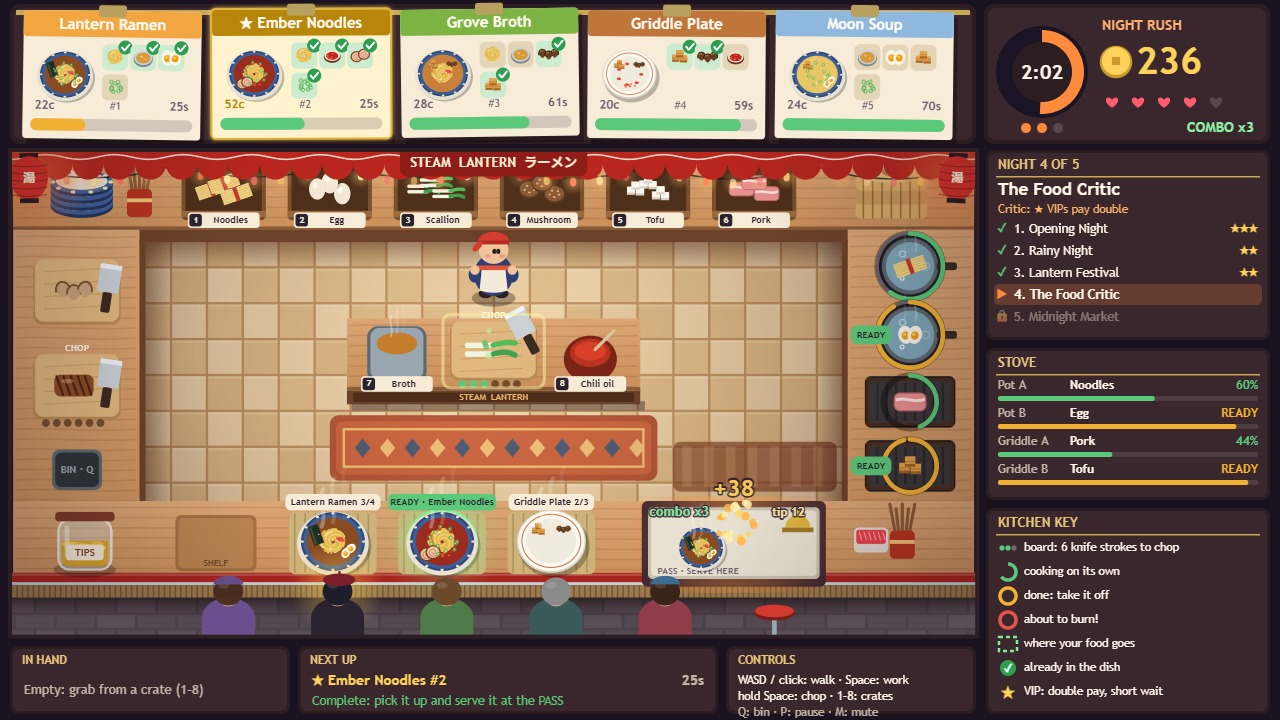
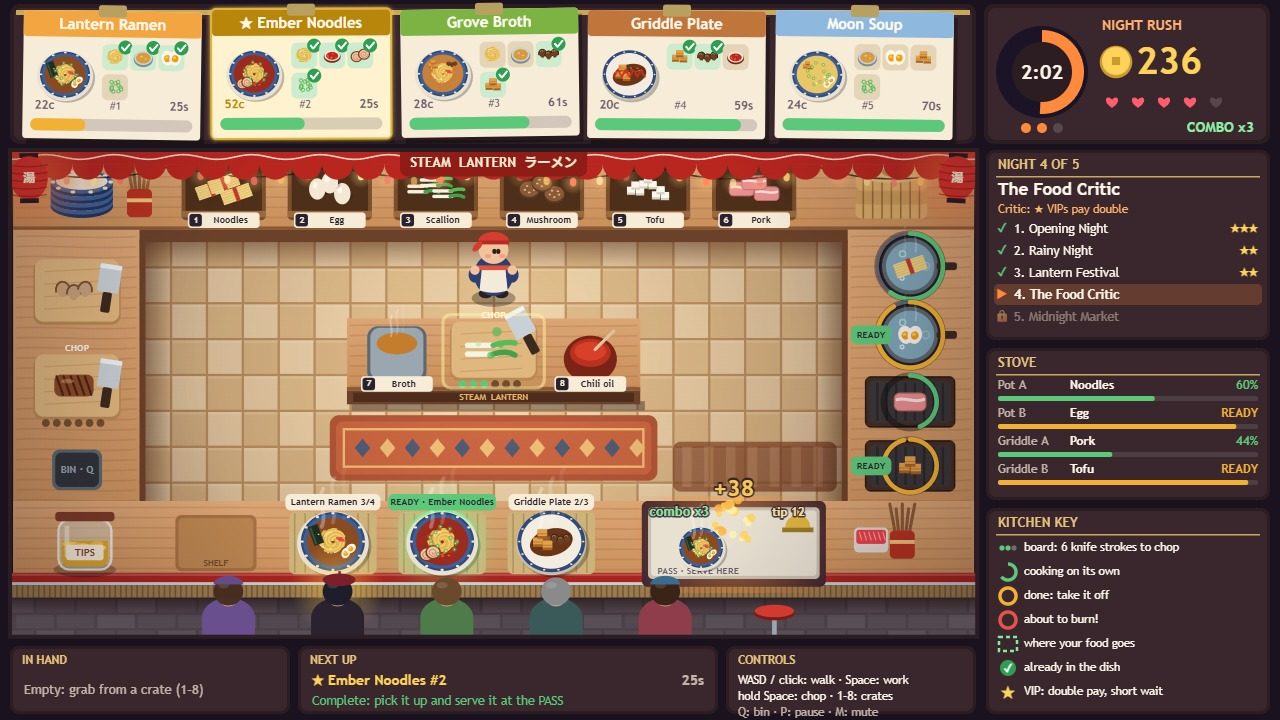
Plated dishes: indigo-rimmed plate, glaze, larger food gathered in the middle; longer Chrome start window for tools

diff --git a/game/src/render/food-art.js b/game/src/render/food-art.js
@@ -366,6 +366,61 @@ function drawGarnish(ctx, x, y, r) {
 }
 
 /**
+ * A plated dish: a stoneware plate with the stall's indigo rim, a dark glaze swept under the food,
+ * and the food large and gathered in the middle so the plate reads full even when shrunk.
+ */
+function drawPlated(ctx, contents, x, y, r) {
+  ellipse(ctx, x, y + r * 0.05, r * 1.1, r * 1.0, '#c9c0b0');
+  ellipse(ctx, x, y, r * 1.06, r * 0.96, '#2f4a7a');
+  ellipse(ctx, x, y, r * 0.94, r * 0.85, '#f3ede1');
+  for (let i = 0; i < 14; i += 1) {
+    const a = (i / 14) * TAU;
+    ellipse(ctx, x + Math.cos(a) * r, y + Math.sin(a) * r * 0.905, r * 0.035, r * 0.025, '#f6e7c8');
+  }
+  // The glaze the food sits in.
+  ctx.save();
+  ctx.translate(x, y + r * 0.02);
+  ctx.rotate(-0.25);
+  ellipse(ctx, 0, 0, r * 0.68, r * 0.42, '#6b3418');
+  ellipse(ctx, -r * 0.12, -r * 0.08, r * 0.3, r * 0.12, 'rgba(255,200,140,0.25)');
+  ctx.restore();
+  const has = (kind) => contents.includes(kind);
+  if (has('tofu')) {
+    drawTofuCube(ctx, x - r * 0.42, y + r * 0.02, r * 0.3, true);
+    drawTofuCube(ctx, x - r * 0.12, y + r * 0.12, r * 0.3, true);
+    drawTofuCube(ctx, x - r * 0.28, y - r * 0.24, r * 0.3, true);
+  }
+  if (has('mushroom')) drawMushroomSlices(ctx, x + r * 0.3, y - r * 0.08, r * 0.95, true);
+  if (has('pork')) {
+    drawChashu(ctx, x + r * 0.05, y + r * 0.35, r * 0.24);
+    drawChashu(ctx, x + r * 0.32, y + r * 0.3, r * 0.24);
+  }
+  if (has('egg')) {
+    drawEggHalf(ctx, x - r * 0.5, y + r * 0.38, r * 0.8, 0.4);
+    drawEggHalf(ctx, x - r * 0.3, y + r * 0.44, r * 0.8, 0.9);
+  }
+  if (has('chili')) {
+    // A zigzag drizzle of chili oil across the top, with a few flakes.
+    ctx.beginPath();
+    for (let i = 0; i <= 8; i += 1) {
+      const px = x - r * 0.62 + i * r * 0.155;
+      const py = y - r * 0.02 + (i % 2 ? -r * 0.16 : r * 0.12);
+      if (i === 0) ctx.moveTo(px, py);
+      else ctx.lineTo(px, py);
+    }
+    stroke(ctx, 'rgba(214,40,22,0.9)', r * 0.07);
+    for (let i = 0; i < 7; i += 1) ellipse(ctx, x + (jitter(i + 51) - 0.5) * r, y + (jitter(i + 63) - 0.5) * r * 0.6, r * 0.04, r * 0.025, '#ff5a2a');
+  }
+  if (has('scallion')) {
+    for (let i = 0; i < 9; i += 1) {
+      const a = i * 2.3;
+      const d = r * 0.5 * Math.sqrt(jitter(i + 71));
+      drawScallionRing(ctx, x + Math.cos(a) * d, y + Math.sin(a) * d * 0.8, r * 0.07);
+    }
+  }
+}
+
+/**
  * A dish seen from above at radius r: a glazed bowl on its saucer for noodle and soup dishes, a
  * plate for the rest, an empty serving board when there is nothing in it yet.
  */
@@ -404,13 +459,7 @@ export function drawDish(ctx, contents, x, y, r, { glow = null, steam = 0 } = {}
     drawToppings(ctx, contents, x, y, r * 0.8);
     if (contents.includes('broth') && contents.includes('noodles')) drawGarnish(ctx, x, y, r);
   } else {
-    ellipse(ctx, x, y, r * 1.08, r * 0.98, '#d9d2c4');
-    ellipse(ctx, x, y - r * 0.02, r * 1.04, r * 0.94, '#fbf8f1');
-    ellipse(ctx, x, y - r * 0.02, r * 0.78, r * 0.7, '#f1ebdf');
-    ctx.beginPath();
-    ctx.ellipse(x, y - r * 0.02, r * 0.92, r * 0.83, 0, 0, TAU);
-    stroke(ctx, '#c76b3a', r * 0.03);
-    drawToppings(ctx, contents, x, y, r * 0.85);
+    drawPlated(ctx, contents, x, y, r);
   }
   if (steam > 0) drawSteam(ctx, x, y - r * 0.4, r, steam);
 }

diff --git a/tools/chrome.ts b/tools/chrome.ts
@@ -64,7 +64,8 @@ export async function withChrome(chromePath: string, work: (page: Page, gameUrl:
   ], { stdio: 'ignore' });
   try {
     let target: any = null;
-    for (let attempt = 0; attempt < 50 && target === null; attempt += 1) {
+    // A freshly updated Chrome can take several seconds to come up: allow it 40.
+    for (let attempt = 0; attempt < 200 && target === null; attempt += 1) {
       await sleep(200);
       try {
         const list = await (await fetch(`http://127.0.0.1:${debugPort}/json/list`)).json();
